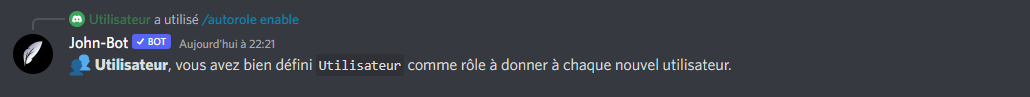
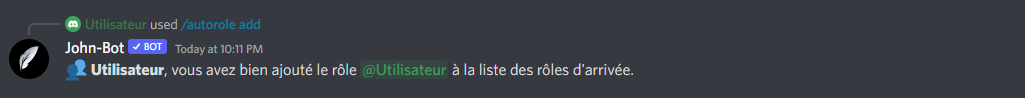
GitBook: [#80] No subject

Changed region(s): [[0.0, 0.3402, 0.718, 0.8351], [0.0312, 0.1237, 0.3122, 0.3402]]

diff --git a/configuration/role-darrivee.md b/configuration/role-darrivee.md
@@ -6,21 +6,21 @@ description: Défini un rôle qui sera donné à chaque nouvel utilisateur.
 
 ## :airplane\_small: Mise en place du rôle d'arrivée
 
-Pour débuter la configuration du système d'arrivée, vous devez ajouter John-Bot à votre serveur pour ce faire consultez le **** [**guide d'ajout de John-Bot**](../#ajouter-john-bot-a-votre-serveur-discord), une fois cela fait exécutez la commande `/autorole enable` ou encore `john autorole enable` suivi de votre rôle d'arrivée dans l'encadré `rôle` (commande slash) ou encore directement après la commande (commande avec préfixe).\
+Pour débuter la configuration du système d'arrivée, vous devez ajouter John-Bot à votre serveur pour ce faire consultez le **** [**guide d'ajout de John-Bot**](../#ajouter-john-bot-a-votre-serveur-discord), une fois cela fait exécutez la commande `/autorole add` ou encore `john autorole add` suivi d'un rôle d'arrivée dans l'encadré `rôle` (commande slash) ou encore directement après la commande (commande avec préfixe).\
 \
-Pour mon exemple, je vais définir `@Utilisateur` comme nouveau rôle d'arrivée, je vais donc exécutez la commande `/autorole enable` et indiquer dans l'encadré `rôle`  `@Utilisateur` (voir image #1). Puis je vais exécuter la commande, suite à cette action John-Bot confirmera l'activation du rôle d'arrivée sur le rôle choisie (voir image #2).
+Pour mon exemple, je vais ajouter `@Utilisateur` comme rôle d'arrivée, je vais donc exécutez la commande `/autorole add` et indiquer dans l'encadré `rôle`  `@Utilisateur` (voir image #1). Puis je vais exécuter la commande, suite à cette action John-Bot confirmera l'ajout du rôle d'arrivée à la liste des rôles d'arrivé (voir image #2).
 
 {% hint style="danger" %}
 Assurez-vous que rôle d'intégration de John-Bot soit en haut de votre rôle d'arrivée. (voir image #3)
 {% endhint %}
 
-![Image #1](../.gitbook/assets/autoroleview.png)
+![Image #1](../.gitbook/assets/AutoRoleAdd.png)
 
 ![Image #2](../.gitbook/assets/AutoRoleConfirme.png)
 
 ![image #3](../.gitbook/assets/John-BotRoles.png)
 
-## :eyes: Afficher le rôle d'arrivée actuel
+## :eyes: Afficher la liste des rôles d'arrivée
 
 Vous ne vous rappelez plus si vous avez activé le rôle d'arrivée ou encore quel rôle vous avez configuré ? Si c'est le cas vous n'avez qu'à exécuter la commande `/autorole view` ou encore `john autorole view` dans un salon textuel et le tour est joué ! (voir image #4)
 
